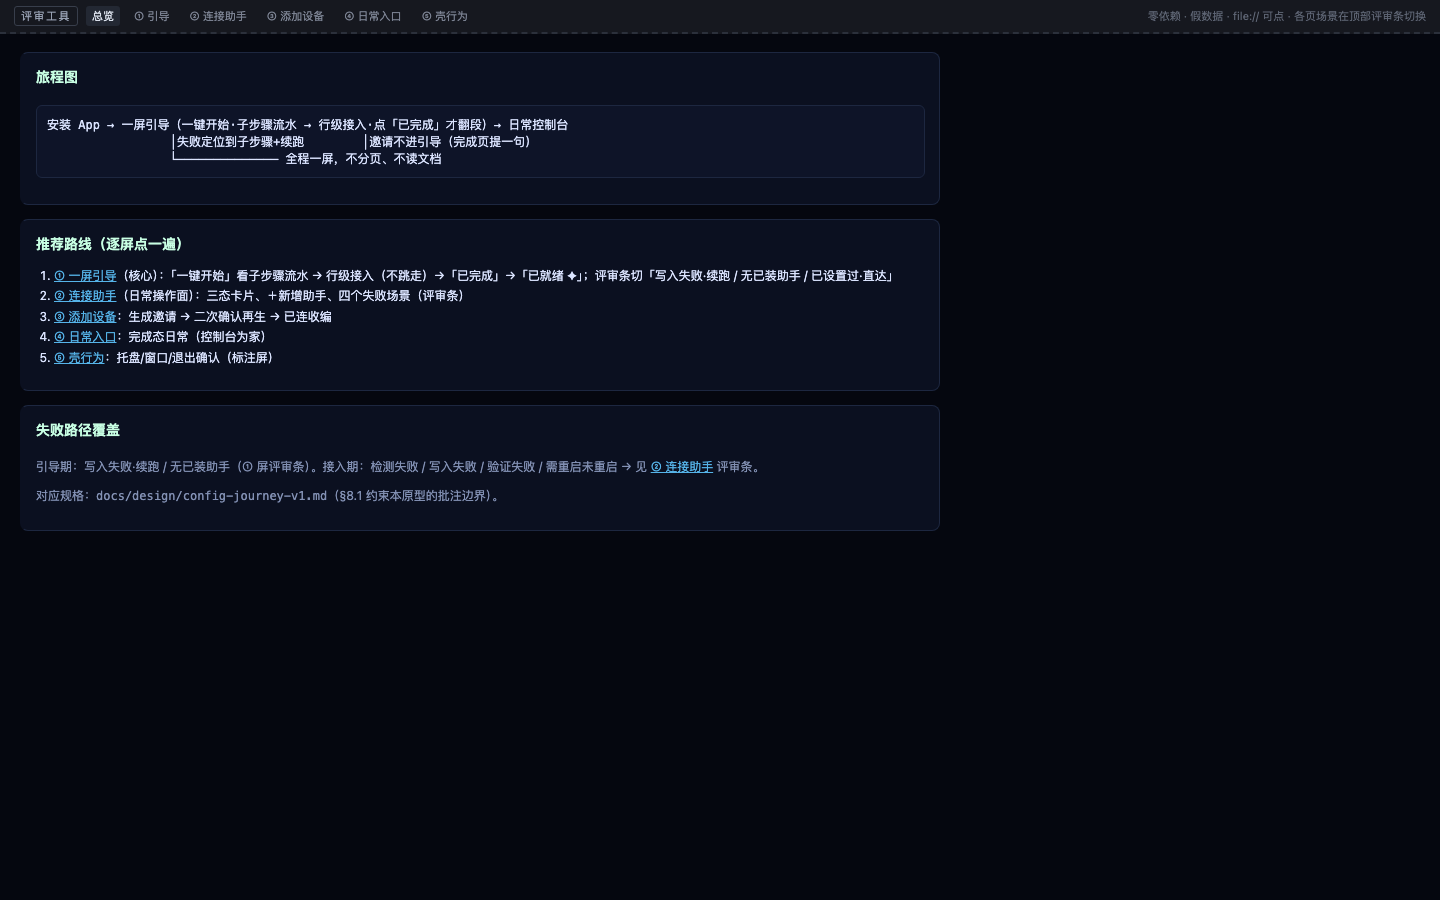
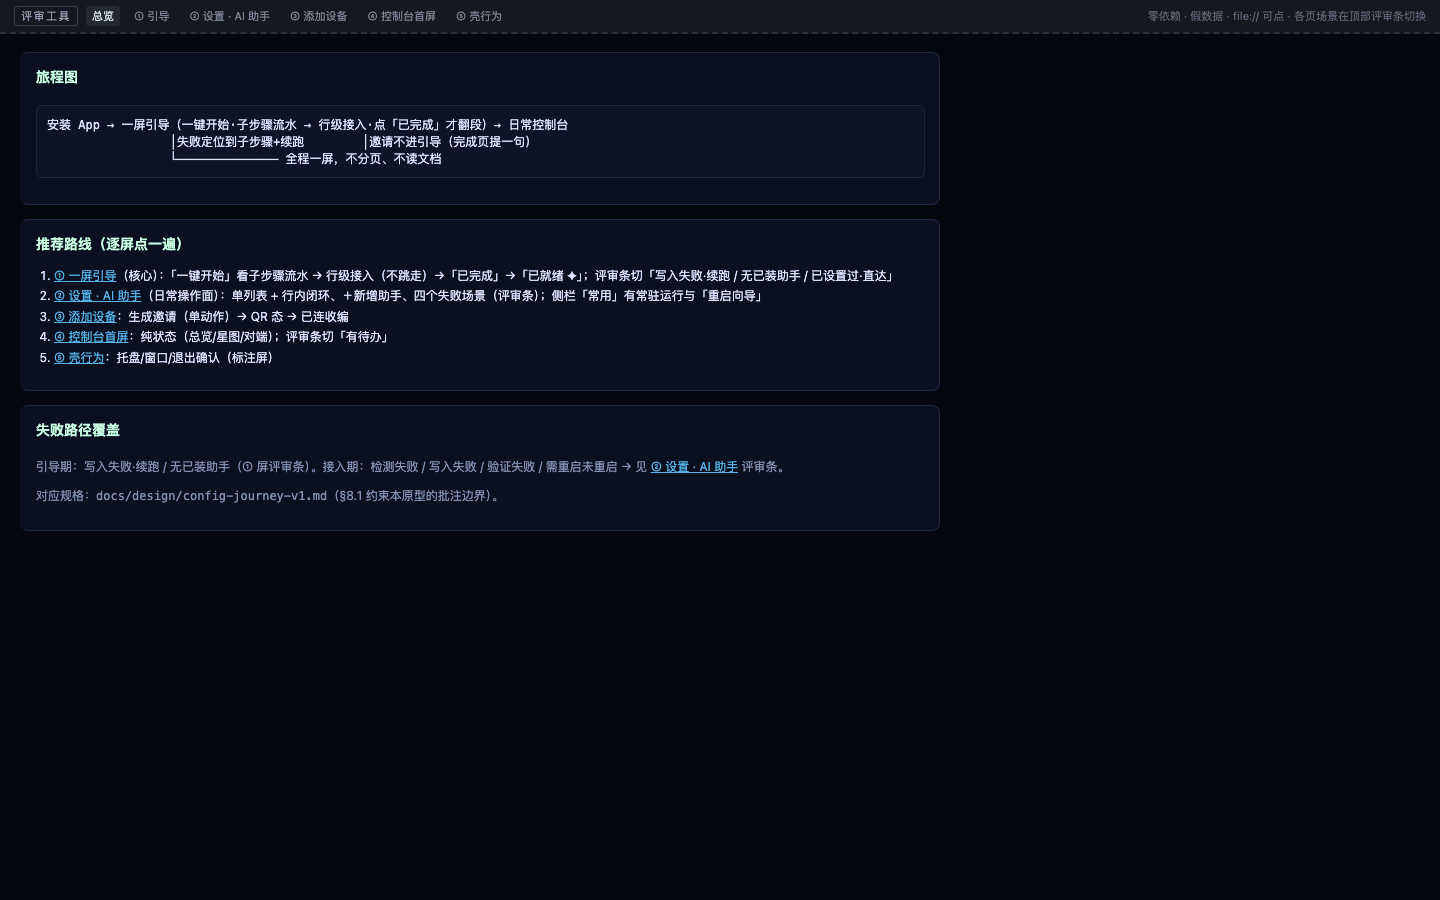
docs(design): device invite single-action + console home pure-status
- 邀请页单动作化：一个主按钮 → 结果（QR+令牌+复制）；重新生成收详情
  （二次确认）；已连收编 +「再邀请一台 ›」折叠；对端列表同页上方
- 控制台首屏纯状态化：状态总览三格（守护/对端/记忆）+「需要注意」
  条件待办（无事不出现，去处理 → 设置·AI 助手）+ 星图 + 对端行；
  设置/关于本机不占首屏（关于本机入设置侧栏）
- 规格 §5.5/§5.6 拆分重写，§8.2 增 S-8；导航④改名「控制台首屏」

Changed region(s): [[0.0312, 0.3111, 0.5312, 0.4044], [0.1562, 0.0, 0.3438, 0.0311], [0.4688, 0.4978, 0.5312, 0.5289]]

diff --git a/docs/design/prototype/04-device.html b/docs/design/prototype/04-device.html
@@ -4,6 +4,19 @@
 <meta charset="utf-8" />
 <title>邀请新设备</title>
 <link rel="stylesheet" href="./prototype.css" />
+<style>
+main.narrow { max-width: 640px; margin: 0 auto; }
+.arow { display: flex; align-items: center; gap: 10px; padding: 11px 4px; border-top: 1px dashed var(--border); }
+.arow:first-of-type { border-top: none; }
+.arow .nm { font-size: 14px; }
+.arow .st { font-size: 12px; color: var(--muted); }
+.arow .st.ok { color: var(--crt); }
+.arow .sp { flex: 1; }
+.qr { text-align: center; margin: 6px 0 10px; }
+.qr pre { display: inline-block; margin: 0; padding: 16px 20px; border-color: var(--crt-border-soft); letter-spacing: 5px; font-size: 20px; }
+.spin { display: inline-block; width: 11px; height: 11px; border: 2px solid var(--crt-dim); border-top-color: var(--crt); border-radius: 50%; animation: rot .8s linear infinite; vertical-align: -1px; margin-right: 7px; }
+@keyframes rot { to { transform: rotate(360deg); } }
+</style>
 </head>
 <body>
 <!-- ===== 评审工具（非产品界面） ===== -->
@@ -11,7 +24,7 @@
   <span class="tag">评审工具</span>
   <a href="./index.html">总览</a><a href="./01-setup.html">① 引导</a>
   <a href="./03-settings.html">② 设置 · AI 助手</a><a class="here" href="./04-device.html">③ 添加设备</a>
-  <a href="./05-daily.html">④ 日常入口</a><a href="./06-shell.html">⑤ 壳行为</a>
+  <a href="./05-daily.html">④ 控制台首屏</a><a href="./06-shell.html">⑤ 壳行为</a>
   <span class="sep"></span>
   <span class="lbl">场景</span>
   <button data-s="none" aria-pressed="true">未邀未连</button>
@@ -20,46 +33,75 @@
   <button data-s="join-off" aria-pressed="false">加入服务未启用</button>
 </div>
 <!-- ===== 产品界面 ===== -->
-<header class="topbar"><span class="brand">✦ Mebular 控制台</span></header>
-<main>
-  <section class="card crt" id="invite-card">
-    <div class="card-head"><h2>邀请新设备</h2></div>
-    <p class="muted">另一台设备装同一个 Mebular App，扫码（或粘贴令牌）即可加入。令牌一次性、15 分钟有效。</p>
-    <div class="row" id="row-gen"><button class="primary" id="btn-gen">生成邀请</button></div>
-    <div id="invite-out" hidden>
-      <pre style="text-align:center;font-size:22px;letter-spacing:6px;padding:18px">▦▦▦▦▦▦▦
-▦ QR ▦
-▦▦▦▦▦▦▦</pre>
-      <pre>meb_eyJkZXZpY2VJZCI6ImRldmljZS1kZW1vIiwiZW5kcG9pbnQiOiJodHRwOi8vMTkyLjE2OC4xLjIwOjQwMDIi…</pre>
-      <div class="row"><button class="small">复制令牌</button><button class="small ghost" id="btn-regen">重新生成邀请</button></div>
-    </div>
-    <p class="fail-line" id="join-off" hidden>加入服务还没启用，先去设置里打开<button class="primary small">去设置开启</button></p>
+<header class="topbar">
+  <span class="brand">✦ Mebular 控制台</span>
+  <span class="badge">本机 · device-demo</span><span class="badge gray">● P2P 已启用</span><span class="badge gray">记忆 —</span>
+  <span class="spacer"></span>
+  <button class="ghost">⚙ 设置</button><button>＋ 连接已有地址</button><button class="primary">＋ 邀请新设备</button>
+</header>
+<main class="narrow">
+  <!-- 已知对端（≥1 才渲染） -->
+  <section class="card crt" id="peers-card" hidden>
+    <div class="card-head"><h2>已知对端</h2><span class="badge">1 已连</span></div>
+    <div class="arow"><span class="nm">device-living-room</span><span class="st ok">已连 · 直连（LAN）· 3 分钟前</span><span class="sp"></span><button class="ghost small" onclick="alert('原型：对端详情 / 断开（二次确认）。')">详情 ›</button></div>
   </section>
 
-  <section class="card" id="joined-card" hidden>
-    <div class="card-head"><h2>已知对端（1）</h2><span class="badge">已连</span></div>
-    <p class="muted"><code>device-living-room</code> · 直连（LAN）· 最近同步 3 分钟前</p>
-    <div class="row"><button class="small ghost">详情</button><button class="small ghost">断开</button></div>
+  <section class="card crt" id="invite-card">
+    <div class="card-head"><h2>邀请新设备</h2></div>
+
+    <!-- 未邀未连：一个动作 -->
+    <div id="st-none">
+      <p class="muted" style="margin:0 0 10px">另一台设备装同一个 App，扫码（或粘贴令牌）即入。令牌一次性、15 分钟有效。</p>
+      <button class="primary" id="btn-gen">生成邀请</button>
+    </div>
+
+    <!-- 已邀请：结果（QR + 令牌），次级入详情 -->
+    <div id="st-invited" hidden>
+      <div class="qr"><pre>▦▦▦▦▦
+▦ QR ▦
+▦▦▦▦▦</pre></div>
+      <pre style="text-align:center">meb_eyJkZXZpY2VJZCI6ImRldmljZS1kZW1vIn0…</pre>
+      <div class="row" style="justify-content:center"><button class="primary small">复制令牌</button></div>
+      <p class="fail-line gray" style="justify-content:center;margin-top:8px">等待对方加入中…（15 分钟内有效）</p>
+      <details class="detail"><summary>详情</summary>
+        <p class="muted">邀请方端点 <code>http://192.168.1.20:4002</code>。重新生成会让旧令牌失效。</p>
+        <div class="row"><button class="small ghost" id="btn-regen">重新生成邀请</button></div>
+      </details>
+    </div>
+
+    <!-- 已连：收编；再邀请折叠 -->
+    <div id="st-joined" hidden>
+      <p class="fail-line ok" style="margin:0 0 6px">✓ device-living-room 已加入</p>
+      <details class="detail"><summary>再邀请一台 ›</summary>
+        <p class="muted" style="margin:6px 0 10px">令牌一次性、15 分钟有效。</p>
+        <button class="primary small" id="btn-gen2">生成邀请</button>
+      </details>
+    </div>
+
+    <!-- 加入服务未启用：一行 + 一个行动 -->
+    <p class="fail-line" id="st-joinoff" hidden>加入服务还没启用，先去设置里打开<a class="btn primary small" href="./03-settings.html?sec=common">去设置开启</a></p>
   </section>
 </main>
 <script>
 const $ = (id) => document.getElementById(id);
 function show(s) {
   document.querySelectorAll('.proto-review button[data-s]').forEach((b) => b.setAttribute('aria-pressed', String(b.dataset.s === s)));
-  $('invite-out').hidden = s === 'none' || s === 'join-off';
-  $('row-gen').hidden = s !== 'none';
-  $('join-off').hidden = s !== 'join-off';
-  $('joined-card').hidden = s !== 'joined';
-  $('invite-card').hidden = false;
+  $('st-none').hidden = s !== 'none' && s !== 'join-off';
+  $('st-invited').hidden = s !== 'invited';
+  $('st-joined').hidden = s !== 'joined';
+  $('st-joinoff').hidden = s !== 'join-off';
+  $('peers-card').hidden = s !== 'joined';
+  if (s === 'join-off') $('st-none').hidden = true;
 }
 document.querySelectorAll('.proto-review button[data-s]').forEach((b) => b.addEventListener('click', () => show(b.dataset.s)));
 { const qs = new URLSearchParams(location.search).get('s'); if (qs) show(qs); }
 $('btn-gen').addEventListener('click', () => {
-  $('btn-gen').disabled = true; $('btn-gen').textContent = '正在生成…';
-  setTimeout(() => { $('invite-out').hidden = false; $('btn-gen').hidden = true; }, 800);
+  $('btn-gen').disabled = true; $('btn-gen').innerHTML = '<span class="spin"></span>正在生成…';
+  setTimeout(() => { show('invited'); document.querySelector('[data-s="invited"]').setAttribute('aria-pressed', 'true'); }, 800);
 });
+$('btn-gen2').addEventListener('click', () => alert('原型：生成邀请（同上 QR 态）。'));
 $('btn-regen').addEventListener('click', () => {
-  if (confirm('已生成过一个邀请。重新生成会让旧令牌失效，确定继续？')) alert('原型：已重新生成（旧令牌作废）。');
+  if (confirm('重新生成会让旧令牌失效，确定继续？')) alert('原型：已重新生成（旧令牌作废）。');
 });
 </script>
 </body>

diff --git a/docs/design/prototype/05-daily.html b/docs/design/prototype/05-daily.html
@@ -4,6 +4,21 @@
 <meta charset="utf-8" />
 <title>Mebular 控制台</title>
 <link rel="stylesheet" href="./prototype.css" />
+<style>
+main.home { max-width: 860px; margin: 0 auto; }
+.stats { display: grid; grid-template-columns: repeat(3, 1fr); gap: 12px; }
+.stat { border: 1px solid var(--crt-border-soft); border-radius: 8px; padding: 12px 14px; background: var(--bg-panel); }
+.stat .k { font-size: 11px; color: var(--muted); letter-spacing: 1px; }
+.stat .v { font-size: 15px; color: var(--crt-bright); margin-top: 4px; }
+.stat .v .dim { font-size: 12px; color: var(--muted); }
+.arow { display: flex; align-items: center; gap: 10px; padding: 10px 4px; border-top: 1px dashed var(--border); }
+.arow:first-of-type { border-top: none; }
+.arow .nm { font-size: 13px; }
+.arow .st { font-size: 12px; color: var(--muted); }
+.arow .st.todo { color: var(--warn); }
+.arow .st.ok { color: var(--crt); }
+.arow .sp { flex: 1; }
+</style>
 </head>
 <body>
 <!-- ===== 评审工具（非产品界面） ===== -->
@@ -11,9 +26,11 @@
   <span class="tag">评审工具</span>
   <a href="./index.html">总览</a><a href="./01-setup.html">① 引导</a>
   <a href="./03-settings.html">② 设置 · AI 助手</a><a href="./04-device.html">③ 添加设备</a>
-  <a class="here" href="./05-daily.html">④ 日常入口</a><a href="./06-shell.html">⑤ 壳行为</a>
+  <a class="here" href="./05-daily.html">④ 控制台首屏</a><a href="./06-shell.html">⑤ 壳行为</a>
   <span class="sep"></span>
-  <span class="lbl">完成态/跳过之后的日常：直达控制台，随时可经「← 返回向导」或托盘回去</span>
+  <span class="lbl">场景</span>
+  <button data-s="normal" aria-pressed="true">一切正常</button>
+  <button data-s="attention" aria-pressed="false">有待办</button>
 </div>
 <!-- ===== 产品界面 ===== -->
 <header class="topbar">
@@ -22,9 +39,24 @@
   <span class="spacer"></span>
   <button class="ghost">⚙ 设置</button><button>＋ 连接已有地址</button><button class="primary">＋ 邀请新设备</button>
 </header>
-<main>
+<main class="home">
+  <!-- 状态总览：纯状态，无操作 -->
+  <div class="stats">
+    <div class="stat"><div class="k">守护</div><div class="v">运行中 <span class="dim">· 临时运行</span></div></div>
+    <div class="stat"><div class="k">对端</div><div class="v">1 已连 <span class="dim">/ 共 2</span></div></div>
+    <div class="stat"><div class="k">记忆</div><div class="v">128 条 <span class="dim">· 今日 +6</span></div></div>
+  </div>
+
+  <!-- 待办：条件渲染，无事不出现 -->
+  <section class="card" id="attention" hidden style="border-color:var(--warn-border)">
+    <div class="card-head"><h2>需要注意</h2></div>
+    <div class="arow"><span class="nm">OpenChamber 待生效</span><span class="st todo">已接入，重载后生效</span><span class="sp"></span><a class="btn primary small" href="./03-settings.html?s=pending-restart">去处理 ›</a></div>
+    <div class="arow"><span class="nm">device-old-laptop 未连接</span><span class="st">上次在线 12 天前</span><span class="sp"></span><button class="ghost small" onclick="alert('原型：对端详情。')">详情 ›</button></div>
+  </section>
+
+  <!-- 星图（本机视角） -->
   <section class="card crt">
-    <div class="card-head"><h2>星图（本机视角）</h2><span class="badge">已就绪</span></div>
+    <div class="card-head"><h2>星图</h2><span class="badge">已就绪</span></div>
     <pre style="text-align:center;padding:24px">        device-living-room
                ●
              ╱
@@ -33,15 +65,21 @@
                ○ device-old-laptop（未连接）</pre>
   </section>
 
+  <!-- 对端列表 -->
   <section class="card">
-    <div class="card-head"><h2>设置</h2><span class="badge gray">常用 / 高级 / 诊断</span></div>
-    <p class="muted">常用：常驻运行、加入服务开关、重启向导；AI 助手：接入管理（单列表 + 行内闭环）；高级：原始配置编辑；诊断：日志 + 一键复制诊断包。</p>
-  </section>
-
-  <section class="card">
-    <div class="card-head"><h2>关于本机</h2><span class="badge gray">只读</span></div>
-    <p class="muted">身份与存储 · 运行状态 · 常驻服务文件位置。</p>
+    <div class="card-head"><h2>对端</h2><span class="badge gray">2</span></div>
+    <div class="arow"><span class="nm">device-living-room</span><span class="st ok">已连 · 直连（LAN）· 3 分钟前</span><span class="sp"></span><button class="ghost small" onclick="alert('原型：对端详情 / 断开（二次确认）。')">详情 ›</button></div>
+    <div class="arow"><span class="nm">device-old-laptop</span><span class="st">未连接 · 上次在线 12 天前</span><span class="sp"></span><button class="ghost small" onclick="alert('原型：对端详情。')">详情 ›</button></div>
   </section>
 </main>
+<script>
+const $ = (id) => document.getElementById(id);
+function show(s) {
+  document.querySelectorAll('.proto-review button[data-s]').forEach((b) => b.setAttribute('aria-pressed', String(b.dataset.s === s)));
+  $('attention').hidden = s !== 'attention';
+}
+document.querySelectorAll('.proto-review button[data-s]').forEach((b) => b.addEventListener('click', () => show(b.dataset.s)));
+{ const qs = new URLSearchParams(location.search).get('s'); if (qs) show(qs); }
+</script>
 </body>
 </html>

diff --git a/docs/design/prototype/index.html b/docs/design/prototype/index.html
@@ -11,7 +11,7 @@
   <span class="tag">评审工具</span>
   <a class="here" href="./index.html">总览</a><a href="./01-setup.html">① 引导</a>
   <a href="./03-settings.html">② 设置 · AI 助手</a><a href="./04-device.html">③ 添加设备</a>
-  <a href="./05-daily.html">④ 日常入口</a><a href="./06-shell.html">⑤ 壳行为</a>
+  <a href="./05-daily.html">④ 控制台首屏</a><a href="./06-shell.html">⑤ 壳行为</a>
   <span class="sep"></span>
   <span class="lbl">零依赖 · 假数据 · file:// 可点 · 各页场景在顶部评审条切换</span>
 </div>
@@ -28,8 +28,8 @@
     <ol class="checklist" style="color:var(--text)">
       <li><a href="./01-setup.html">① 一屏引导</a>（核心）：「一键开始」看子步骤流水 → 行级接入（不跳走）→「已完成」→「已就绪 ✦」；评审条切「写入失败·续跑 / 无已装助手 / 已设置过·直达」</li>
       <li><a href="./03-settings.html">② 设置 · AI 助手</a>（日常操作面）：单列表 + 行内闭环、＋新增助手、四个失败场景（评审条）；侧栏「常用」有常驻运行与「重启向导」</li>
-      <li><a href="./04-device.html">③ 添加设备</a>：生成邀请 → 二次确认再生 → 已连收编</li>
-      <li><a href="./05-daily.html">④ 日常入口</a>：完成态日常（控制台为家）</li>
+      <li><a href="./04-device.html">③ 添加设备</a>：生成邀请（单动作）→ QR 态 → 已连收编</li>
+      <li><a href="./05-daily.html">④ 控制台首屏</a>：纯状态（总览/星图/对端）；评审条切「有待办」</li>
       <li><a href="./06-shell.html">⑤ 壳行为</a>：托盘/窗口/退出确认（标注屏）</li>
     </ol>
   </section>

diff --git a/docs/design/prototype/03-settings.html b/docs/design/prototype/03-settings.html
@@ -34,7 +34,7 @@
   <span class="tag">评审工具</span>
   <a href="./index.html">总览</a><a href="./01-setup.html">① 引导</a>
   <a class="here" href="./03-settings.html">② 设置 · AI 助手</a><a href="./04-device.html">③ 添加设备</a>
-  <a href="./05-daily.html">④ 日常入口</a><a href="./06-shell.html">⑤ 壳行为</a>
+  <a href="./05-daily.html">④ 控制台首屏</a><a href="./06-shell.html">⑤ 壳行为</a>
   <span class="sep"></span>
   <span class="lbl">场景（作用于 OpenChamber 行）</span>
   <button data-s="normal" aria-pressed="true">正常</button>
@@ -57,6 +57,7 @@
       <button data-sec="assistants" class="on">AI 助手</button>
       <button class="soon" title="原型未展开">高级</button>
       <button class="soon" title="原型未展开">诊断</button>
+      <button class="soon" title="原型未展开">关于本机</button>
     </nav>
 
     <!-- ===== 常用 ===== -->

diff --git a/docs/design/prototype/01-setup.html b/docs/design/prototype/01-setup.html
@@ -84,7 +84,7 @@ button.big { font-size: 15px; padding: 11px 26px; border-radius: 8px; letter-spa
   <span class="tag">评审工具</span>
   <a href="./index.html">总览</a><a class="here" href="./01-setup.html">① 引导</a>
   <a href="./03-settings.html">② 设置 · AI 助手</a><a href="./04-device.html">③ 添加设备</a>
-  <a href="./05-daily.html">④ 日常入口</a><a href="./06-shell.html">⑤ 壳行为</a>
+  <a href="./05-daily.html">④ 控制台首屏</a><a href="./06-shell.html">⑤ 壳行为</a>
   <span class="sep"></span>
   <span class="lbl">场景</span>
   <button data-s="fresh" aria-pressed="true">全新</button>

diff --git a/docs/design/prototype/06-shell.html b/docs/design/prototype/06-shell.html
@@ -11,7 +11,7 @@
   <span class="tag">评审工具</span>
   <a href="./index.html">总览</a><a href="./01-setup.html">① 引导</a>
   <a href="./03-settings.html">② 设置 · AI 助手</a><a href="./04-device.html">③ 添加设备</a>
-  <a href="./05-daily.html">④ 日常入口</a><a class="here" href="./06-shell.html">⑤ 壳行为</a>
+  <a href="./05-daily.html">④ 控制台首屏</a><a class="here" href="./06-shell.html">⑤ 壳行为</a>
   <span class="sep"></span>
   <span class="lbl">本页为标注屏：规格见 config-journey-v1.md §4.1</span>
 </div>

diff --git a/docs/design/prototype/README.md b/docs/design/prototype/README.md
@@ -13,13 +13,14 @@
 | `index.html` | 总览 + 旅程图 + 推荐路线（评审页） |
 | `01-setup.html` | **一屏引导**（核心）：星野舞台 + 里程碑轨道，永远只有一个主按钮：① 一键开始（按钮区原位展开子步骤流水：✓启动 ✓写入 ●重启恢复；失败子步骤定位+「从此处续跑」）→ ② 行级接入（「已接入 ✓」不自动翻段，点「已完成」才翻段；可回头再接）→ 已就绪 ✦（邀请不进引导，完成页提一句）；场景：写入失败·续跑 / 无已装助手 / 已设置过·直达 |
 | `03-settings.html` | 设置 · AI 助手（日常操作面）：设置侧栏（常用/AI 助手/高级/诊断）+ 单列表助手管理（与引导同语言：名称+状态词+一个动作，需处理优先排序，未安装折叠底部一行）、＋新增助手、行内展开走完验证闭环；常用区含常驻运行与「重启向导」；场景条覆盖**检测失败 / 写入失败 / 验证失败 / 需重启未重启**（一行式） |
-| `04-device.html` | 邀请：生成（loading 禁用）→ 二次确认再生 → 已连收编；加入服务未启用指路 |
-| `05-daily.html` | 日常入口：完成态直达控制台，设置/诊断/关于本机 |
+| `04-device.html` | 邀请（单动作页）：一个主按钮 → 结果（QR+令牌+复制）；重新生成收详情（二次确认）；已连收编 +「再邀请一台 ›」折叠；加入服务未启用一行指路 |
+| `05-daily.html` | **控制台首屏**（日常）：纯状态——状态总览三格（守护/对端/记忆）+「需要注意」条件待办（无事不出现）+ 星图 + 对端列表；设置/关于本机不占首屏 |
 | `06-shell.html` | 壳行为标注屏（评审页）：托盘分组菜单 / 关窗=隐藏 / 退出确认口径 / 单实例 |
 
 ## 推荐路线
 
 1. `01`（多停一会）：点「一键开始」看子步骤流水 → 给 OpenChamber 点「接入」（行级已接入，**不跳走**）→ 可再接 Claude Code → 点「已完成」→「已就绪 ✦」；评审条切「写入失败·续跑」「无已装助手」「已设置过·直达」各看一眼；点完成段的回顾行可重新展开。
 2. `03`：日常再管助手的场景——设置 → AI 助手 单列表；点 OpenChamber「接入」看行内闭环；评审条切四个失败场景；「＋ 新增助手」登记流；侧栏切「常用」看常驻运行与「重启向导」。
-3. `04`：生成邀请 → 重新生成的二次确认。
-4. `05`/`06`：日常与壳行为（标注）。
+3. `04`：生成邀请（单动作）→ QR 态；「已连」看收编 + 再邀请折叠。
+4. `05`：控制台首屏——正常态纯状态；评审条切「有待办」看条件待办（去处理 → 设置 · AI 助手）。
+5. `06`：壳行为（标注）。
